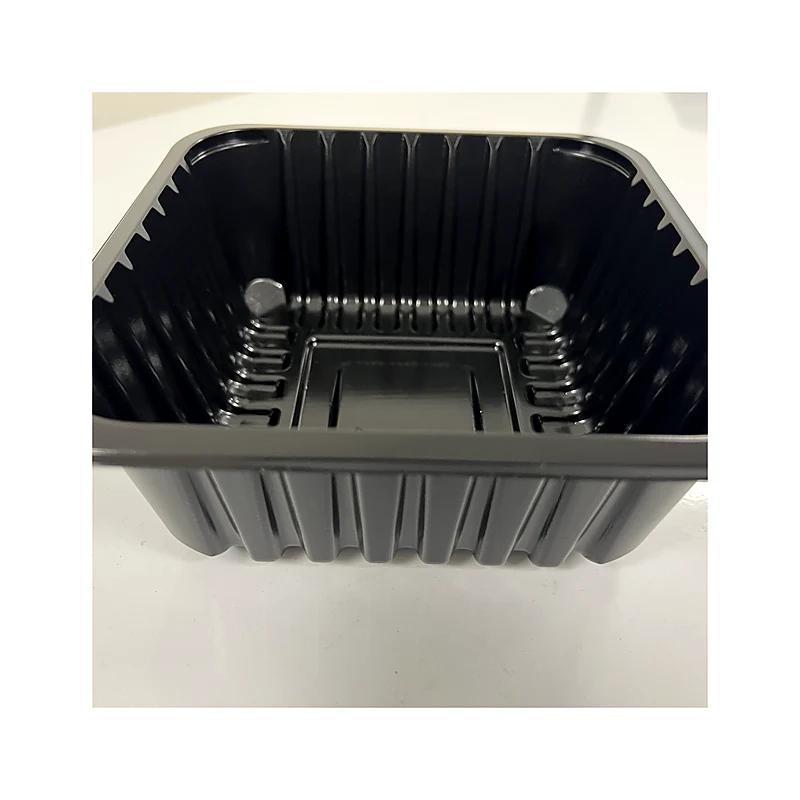
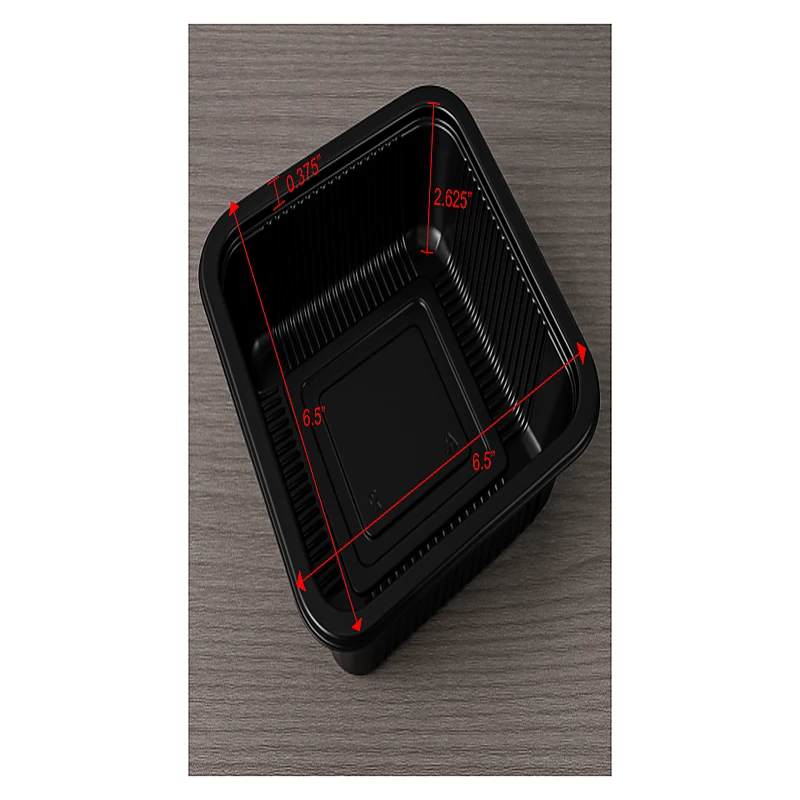
new

diff --git a/cravebot.html b/cravebot.html
@@ -669,18 +669,22 @@ footer { border-top:0.5px solid var(--border); padding:2.5rem 3rem; max-width:12
         <div style="display:grid;grid-template-columns:1fr 1fr;gap:2px;background:var(--border);">
           <img src="/container-large-angle.webp" alt="Rectangular container — angled view" style="width:100%;aspect-ratio:1;object-fit:contain;background:var(--bg2);padding:0.75rem;display:block;" onerror="this.style.display='none'" />
           <img src="/container-large-top.webp"   alt="Rectangular container — top view"    style="width:100%;aspect-ratio:1;object-fit:contain;background:var(--bg2);padding:0.75rem;display:block;" onerror="this.style.display='none'" />
+      <!-- Container 1 — Rectangular -->
+      <div style="background:var(--white);border:0.5px solid var(--border);border-radius:16px;overflow:hidden;">
+        <div style="background:var(--bg2);padding:1.5rem;display:flex;align-items:center;justify-content:center;">
+          <img src="/container-large-angle.webp" alt="Package 1 — Rectangular tray with dimensions" style="width:100%;max-width:420px;height:auto;display:block;border-radius:8px;" onerror="this.style.display='none'" />
         </div>
         <div style="padding:1.5rem;">
           <div style="font-size:0.62rem;font-weight:800;letter-spacing:0.12em;text-transform:uppercase;color:var(--orange);margin-bottom:0.5rem;">Package 1</div>
           <div style="font-family:var(--serif);font-size:1.25rem;font-weight:700;letter-spacing:-0.015em;margin-bottom:1.25rem;color:var(--text);">Rectangular Tray</div>
           <div style="display:flex;flex-direction:column;gap:0.55rem;">
             <div style="display:flex;justify-content:space-between;align-items:center;padding:0.55rem 0;border-bottom:0.5px solid var(--border);">
-              <span style="font-size:0.75rem;font-weight:600;color:var(--textS);">Top (L × W)</span>
-              <span style="font-size:0.82rem;font-weight:700;color:var(--text);">7.5″ × 6.5″</span>
+              <span style="font-size:0.75rem;font-weight:600;color:var(--textS);">Inner (L × W)</span>
+              <span style="font-size:0.82rem;font-weight:700;color:var(--text);">7″ × 6.5″</span>
             </div>
             <div style="display:flex;justify-content:space-between;align-items:center;padding:0.55rem 0;border-bottom:0.5px solid var(--border);">
-              <span style="font-size:0.75rem;font-weight:600;color:var(--textS);">Bottom (L × W)</span>
-              <span style="font-size:0.82rem;font-weight:700;color:var(--text);">6″ × 5″</span>
+              <span style="font-size:0.75rem;font-weight:600;color:var(--textS);">Flange width</span>
+              <span style="font-size:0.82rem;font-weight:700;color:var(--text);">0.375″</span>
             </div>
             <div style="display:flex;justify-content:space-between;align-items:center;padding:0.55rem 0;border-bottom:0.5px solid var(--border);">
               <span style="font-size:0.75rem;font-weight:600;color:var(--textS);">Height</span>
@@ -698,27 +702,26 @@ footer { border-top:0.5px solid var(--border); padding:2.5rem 3rem; max-width:12
         </div>
       </div>
 
-      <!-- Container 2 — Square (small) -->
+      <!-- Container 2 — Square -->
       <div style="background:var(--white);border:0.5px solid var(--border);border-radius:16px;overflow:hidden;">
-        <div style="display:grid;grid-template-columns:1fr 1fr;gap:2px;background:var(--border);">
-          <img src="/container-small-angle.webp" alt="Square container — angled view" style="width:100%;aspect-ratio:1;object-fit:contain;background:var(--bg2);padding:0.75rem;display:block;" onerror="this.style.display='none'" />
-          <img src="/container-small-top.webp"   alt="Square container — top view"   style="width:100%;aspect-ratio:1;object-fit:contain;background:var(--bg2);padding:0.75rem;display:block;" onerror="this.style.display='none'" />
+        <div style="background:var(--bg2);padding:1.5rem;display:flex;align-items:center;justify-content:center;">
+          <img src="/container-small-angle.webp" alt="Package 2 — Square tray with dimensions" style="width:100%;max-width:420px;height:auto;display:block;border-radius:8px;" onerror="this.style.display='none'" />
         </div>
         <div style="padding:1.5rem;">
           <div style="font-size:0.62rem;font-weight:800;letter-spacing:0.12em;text-transform:uppercase;color:var(--orange);margin-bottom:0.5rem;">Package 2</div>
           <div style="font-family:var(--serif);font-size:1.25rem;font-weight:700;letter-spacing:-0.015em;margin-bottom:1.25rem;color:var(--text);">Square Tray</div>
           <div style="display:flex;flex-direction:column;gap:0.55rem;">
             <div style="display:flex;justify-content:space-between;align-items:center;padding:0.55rem 0;border-bottom:0.5px solid var(--border);">
-              <span style="font-size:0.75rem;font-weight:600;color:var(--textS);">Top (L × W)</span>
-              <span style="font-size:0.82rem;font-weight:600;color:var(--textM);font-style:italic;">TBD</span>
+              <span style="font-size:0.75rem;font-weight:600;color:var(--textS);">Inner (L × W)</span>
+              <span style="font-size:0.82rem;font-weight:700;color:var(--text);">6.5″ × 6.5″</span>
             </div>
             <div style="display:flex;justify-content:space-between;align-items:center;padding:0.55rem 0;border-bottom:0.5px solid var(--border);">
-              <span style="font-size:0.75rem;font-weight:600;color:var(--textS);">Bottom (L × W)</span>
-              <span style="font-size:0.82rem;font-weight:600;color:var(--textM);font-style:italic;">TBD</span>
+              <span style="font-size:0.75rem;font-weight:600;color:var(--textS);">Flange width</span>
+              <span style="font-size:0.82rem;font-weight:700;color:var(--text);">0.375″</span>
             </div>
             <div style="display:flex;justify-content:space-between;align-items:center;padding:0.55rem 0;border-bottom:0.5px solid var(--border);">
               <span style="font-size:0.75rem;font-weight:600;color:var(--textS);">Height</span>
-              <span style="font-size:0.82rem;font-weight:600;color:var(--textM);font-style:italic;">TBD</span>
+              <span style="font-size:0.82rem;font-weight:700;color:var(--text);">2.625″</span>
             </div>
             <div style="display:flex;justify-content:space-between;align-items:center;padding:0.55rem 0;border-bottom:0.5px solid var(--border);">
               <span style="font-size:0.75rem;font-weight:600;color:var(--textS);">Heat-safe</span>